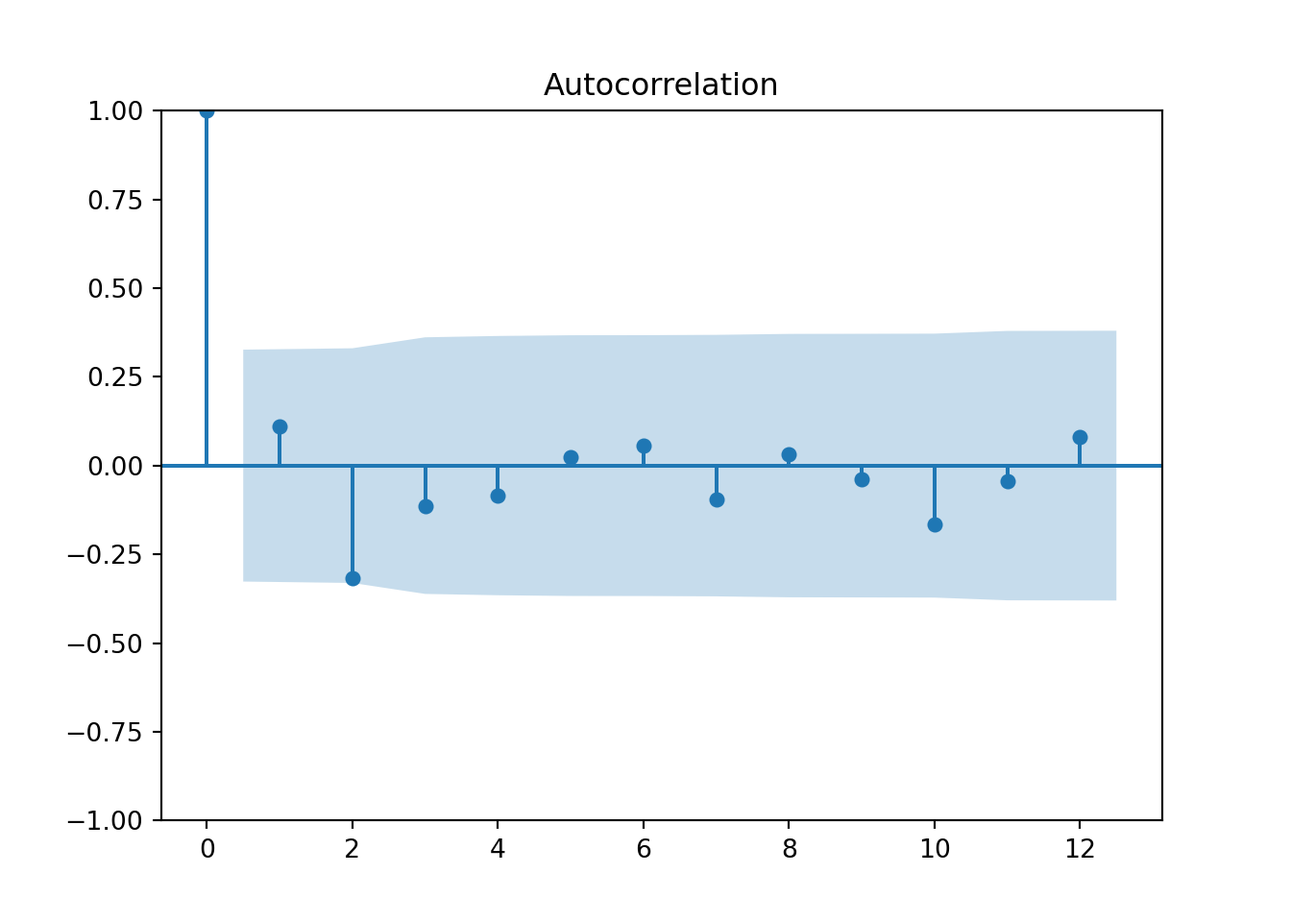
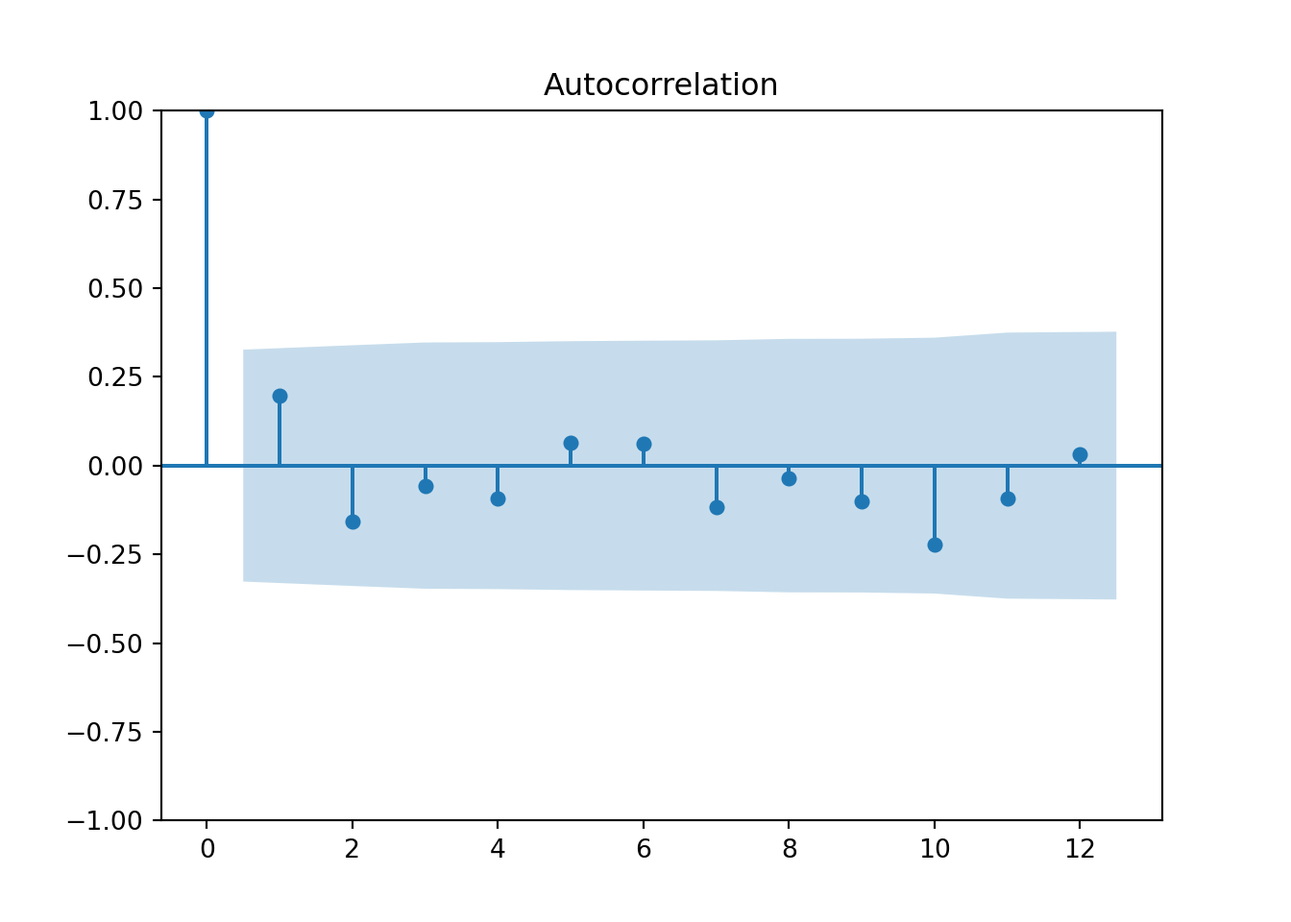
Accuracy measures

diff --git a/docs/arima.html b/docs/arima.html
@@ -23,7 +23,7 @@
 <meta name="author" content="by Dr. Susan Simmons and Dr. Aric LaBarr" />
 
 
-<meta name="date" content="2024-09-03" />
+<meta name="date" content="2024-09-04" />
 
   <meta name="viewport" content="width=device-width, initial-scale=1" />
   <meta name="apple-mobile-web-app-capable" content="yes" />
@@ -481,6 +481,7 @@ H_{A}:Significant\qquad autocorrletion \]</span></p>
 ## 3 search2   93.1   -540. 1094. 1095. 1115.
 ## 4 search1   96.3   -544. 1096. 1096. 1108.
 ## 5 ar3      108.    -549. 1106. 1106. 1118.</code></pre>
+<p>Looking at the ACF and PACF on the residuals of MA(2) model.</p>
 <div class="sourceCode" id="cb55"><pre class="sourceCode r"><code class="sourceCode r"><span id="cb55-1"><a href="arima.html#cb55-1" tabindex="-1"></a>hurr_model <span class="sc">%&gt;%</span> <span class="fu">select</span>(ma2) <span class="sc">%&gt;%</span> <span class="fu">residuals</span>() <span class="sc">%&gt;%</span> <span class="fu">ggAcf</span>()</span></code></pre></div>
 <p><img src="bookdownproj_files/figure-html/unnamed-chunk-9-1.png" width="672" /></p>
 <div class="sourceCode" id="cb56"><pre class="sourceCode r"><code class="sourceCode r"><span id="cb56-1"><a href="arima.html#cb56-1" tabindex="-1"></a>hurr_model <span class="sc">%&gt;%</span> <span class="fu">select</span>(ma2) <span class="sc">%&gt;%</span> <span class="fu">residuals</span>() <span class="sc">%&gt;%</span> <span class="fu">ggPacf</span>()</span></code></pre></div>
@@ -491,6 +492,7 @@ H_{A}:Significant\qquad autocorrletion \]</span></p>
 <pre><code>## Warning: Removed 2 rows containing non-finite outside the scale range
 ## (`stat_bin()`).</code></pre>
 <p><img src="bookdownproj_files/figure-html/unnamed-chunk-9-3.png" width="672" /></p>
+<p>Looking at the ACF and PACF on the ARIMA(3,1,2) model and Ljung-Box test.</p>
 <div class="sourceCode" id="cb60"><pre class="sourceCode r"><code class="sourceCode r"><span id="cb60-1"><a href="arima.html#cb60-1" tabindex="-1"></a>hurr_model <span class="sc">%&gt;%</span> <span class="fu">select</span>(arima32) <span class="sc">%&gt;%</span> <span class="fu">residuals</span>() <span class="sc">%&gt;%</span> <span class="fu">ggAcf</span>()</span></code></pre></div>
 <p><img src="bookdownproj_files/figure-html/unnamed-chunk-10-1.png" width="672" /></p>
 <div class="sourceCode" id="cb61"><pre class="sourceCode r"><code class="sourceCode r"><span id="cb61-1"><a href="arima.html#cb61-1" tabindex="-1"></a>hurr_model <span class="sc">%&gt;%</span> <span class="fu">select</span>(arima32) <span class="sc">%&gt;%</span> <span class="fu">residuals</span>() <span class="sc">%&gt;%</span> <span class="fu">ggPacf</span>()</span></code></pre></div>
@@ -943,15 +945,17 @@ H_{A}:Significant\qquad autocorrletion \]</span></p>
 <div class="sourceCode" id="cb151"><pre class="sourceCode python"><code class="sourceCode python"><span id="cb151-1"><a href="arima.html#cb151-1" tabindex="-1"></a>plot_pacf(quotes_train[<span class="st">&quot;Quotes&quot;</span>],lags<span class="op">=</span><span class="dv">12</span>)</span>
 <span id="cb151-2"><a href="arima.html#cb151-2" tabindex="-1"></a>pyplot.show()</span></code></pre></div>
 <p><img src="bookdownproj_files/figure-html/ADF,%20correlation%20plots%20and%20ARIMA-2.png" width="672" /></p>
-<div class="sourceCode" id="cb152"><pre class="sourceCode python"><code class="sourceCode python"><span id="cb152-1"><a href="arima.html#cb152-1" tabindex="-1"></a>model <span class="op">=</span> ARIMA(y_train, order<span class="op">=</span>(<span class="dv">2</span>,<span class="dv">0</span>,<span class="dv">0</span>))</span>
-<span id="cb152-2"><a href="arima.html#cb152-2" tabindex="-1"></a>model_fit <span class="op">=</span> model.fit()</span>
-<span id="cb152-3"><a href="arima.html#cb152-3" tabindex="-1"></a><span class="bu">print</span>(model_fit.summary())</span></code></pre></div>
+<div class="sourceCode" id="cb152"><pre class="sourceCode python"><code class="sourceCode python"><span id="cb152-1"><a href="arima.html#cb152-1" tabindex="-1"></a><span class="co">### Using statsmodel...the older way of doing this..</span></span>
+<span id="cb152-2"><a href="arima.html#cb152-2" tabindex="-1"></a></span>
+<span id="cb152-3"><a href="arima.html#cb152-3" tabindex="-1"></a>model <span class="op">=</span> ARIMA(y_train, order<span class="op">=</span>(<span class="dv">2</span>,<span class="dv">0</span>,<span class="dv">0</span>))</span>
+<span id="cb152-4"><a href="arima.html#cb152-4" tabindex="-1"></a>model_fit <span class="op">=</span> model.fit()</span>
+<span id="cb152-5"><a href="arima.html#cb152-5" tabindex="-1"></a><span class="bu">print</span>(model_fit.summary())</span></code></pre></div>
 <pre><code>##                                SARIMAX Results                                
 ## ==============================================================================
 ## Dep. Variable:                      Y   No. Observations:                  731
 ## Model:                 ARIMA(2, 0, 0)   Log Likelihood               -2696.123
-## Date:                Tue, 03 Sep 2024   AIC                           5400.247
-## Time:                        10:56:49   BIC                           5418.625
+## Date:                Wed, 04 Sep 2024   AIC                           5400.247
+## Time:                        15:33:07   BIC                           5418.625
 ## Sample:                             0   HQIC                          5407.337
 ##                                 - 731                                         
 ## Covariance Type:                  opg                                         
@@ -991,11 +995,12 @@ H_{A}:Significant\qquad autocorrletion \]</span></p>
 <div class="sourceCode" id="cb158"><pre class="sourceCode python"><code class="sourceCode python"><span id="cb158-1"><a href="arima.html#cb158-1" tabindex="-1"></a>plot_pacf(residuals,lags<span class="op">=</span><span class="dv">12</span>)</span>
 <span id="cb158-2"><a href="arima.html#cb158-2" tabindex="-1"></a>pyplot.show()</span></code></pre></div>
 <p><img src="bookdownproj_files/figure-html/ADF,%20correlation%20plots%20and%20ARIMA-5.png" width="672" /></p>
+<p>Using ndiffs to see if we need to take a difference:</p>
 <div class="sourceCode" id="cb159"><pre class="sourceCode python"><code class="sourceCode python"><span id="cb159-1"><a href="arima.html#cb159-1" tabindex="-1"></a><span class="im">from</span> pmdarima.arima <span class="im">import</span> ndiffs</span>
 <span id="cb159-2"><a href="arima.html#cb159-2" tabindex="-1"></a></span>
-<span id="cb159-3"><a href="arima.html#cb159-3" tabindex="-1"></a>hurricane <span class="op">=</span> pd.read_csv(<span class="st">&quot;https://raw.githubusercontent.com/sjsimmo2/TimeSeries/master/hurrican.csv&quot;</span>)</span>
-<span id="cb159-4"><a href="arima.html#cb159-4" tabindex="-1"></a>hurricane2 <span class="op">=</span> hurricane.dropna(axis<span class="op">=</span><span class="dv">0</span>)</span>
-<span id="cb159-5"><a href="arima.html#cb159-5" tabindex="-1"></a>hurricane_train <span class="op">=</span>hurricane2.head(<span class="dv">149</span>)</span>
+<span id="cb159-3"><a href="arima.html#cb159-3" tabindex="-1"></a>hurr <span class="op">=</span> pd.read_csv(<span class="st">&quot;https://raw.githubusercontent.com/sjsimmo2/TimeSeries/master/hurrican.csv&quot;</span>)</span>
+<span id="cb159-4"><a href="arima.html#cb159-4" tabindex="-1"></a>hurr2 <span class="op">=</span> hurr.dropna(axis<span class="op">=</span><span class="dv">0</span>)</span>
+<span id="cb159-5"><a href="arima.html#cb159-5" tabindex="-1"></a>hurricane_train <span class="op">=</span>hurr2.head(<span class="dv">149</span>)</span>
 <span id="cb159-6"><a href="arima.html#cb159-6" tabindex="-1"></a>hurricane_train</span></code></pre></div>
 <pre><code>##      Date  Hurricanes  MinVMax  MaxVMax  MeanVMax  Year
 ## 0    1851           3     80.0    100.0      86.7  1851
@@ -1026,8 +1031,8 @@ The first value in the Ljung-Box test is the test statistic and the second value
 ## ==============================================================================
 ## Dep. Variable:                      Y   No. Observations:                  731
 ## Model:                 ARIMA(2, 0, 0)   Log Likelihood               -2696.123
-## Date:                Tue, 03 Sep 2024   AIC                           5400.247
-## Time:                        10:56:51   BIC                           5418.625
+## Date:                Wed, 04 Sep 2024   AIC                           5400.247
+## Time:                        15:33:09   BIC                           5418.625
 ## Sample:                             0   HQIC                          5407.337
 ##                                 - 731                                         
 ## Covariance Type:                  opg                                         
@@ -1159,19 +1164,130 @@ The first value in the Ljung-Box test is the test statistic and the second value
 <pre><code>## {&#39;ar1&#39;: 0.9900652806700364}</code></pre>
 <div class="sourceCode" id="cb209"><pre class="sourceCode python"><code class="sourceCode python"><span id="cb209-1"><a href="arima.html#cb209-1" tabindex="-1"></a>model_Quotes.fitted_[<span class="dv">0</span>][<span class="dv">0</span>].model_.get(<span class="st">&quot;aic&quot;</span>)</span></code></pre></div>
 <pre><code>## 151.64675255955572</code></pre>
-<div class="sourceCode" id="cb211"><pre class="sourceCode python"><code class="sourceCode python"><span id="cb211-1"><a href="arima.html#cb211-1" tabindex="-1"></a>resid<span class="op">=</span>model_Quotes.fitted_[<span class="dv">0</span>][<span class="dv">0</span>].model_.get(<span class="st">&quot;residuals&quot;</span>)</span>
-<span id="cb211-2"><a href="arima.html#cb211-2" tabindex="-1"></a></span>
-<span id="cb211-3"><a href="arima.html#cb211-3" tabindex="-1"></a>plot_acf(resid,lags<span class="op">=</span><span class="dv">12</span>)</span>
-<span id="cb211-4"><a href="arima.html#cb211-4" tabindex="-1"></a>pyplot.show()</span></code></pre></div>
+<div class="sourceCode" id="cb211"><pre class="sourceCode python"><code class="sourceCode python"><span id="cb211-1"><a href="arima.html#cb211-1" tabindex="-1"></a><span class="co">### Even though the automatic search choose AR(1), it did NOT include intercept.</span></span>
+<span id="cb211-2"><a href="arima.html#cb211-2" tabindex="-1"></a><span class="co">### Made AR term close to 1 (very close to a random walk).</span></span>
+<span id="cb211-3"><a href="arima.html#cb211-3" tabindex="-1"></a><span class="co">### Refitting the AR(1) model:</span></span>
+<span id="cb211-4"><a href="arima.html#cb211-4" tabindex="-1"></a></span>
+<span id="cb211-5"><a href="arima.html#cb211-5" tabindex="-1"></a>model_Quotes <span class="op">=</span> StatsForecast(models <span class="op">=</span> [ARIMA(order<span class="op">=</span>(<span class="dv">1</span>, <span class="dv">0</span>, <span class="dv">0</span>))], freq <span class="op">=</span> <span class="st">&#39;ME&#39;</span>)</span>
+<span id="cb211-6"><a href="arima.html#cb211-6" tabindex="-1"></a>model_Quotes.fit(df <span class="op">=</span> quotes_train)</span></code></pre></div>
+<pre><code>## StatsForecast(models=[ARIMA])</code></pre>
+<div class="sourceCode" id="cb213"><pre class="sourceCode python"><code class="sourceCode python"><span id="cb213-1"><a href="arima.html#cb213-1" tabindex="-1"></a>resid<span class="op">=</span>model_Quotes.fitted_[<span class="dv">0</span>][<span class="dv">0</span>].model_.get(<span class="st">&quot;residuals&quot;</span>)</span>
+<span id="cb213-2"><a href="arima.html#cb213-2" tabindex="-1"></a></span>
+<span id="cb213-3"><a href="arima.html#cb213-3" tabindex="-1"></a>plot_acf(resid,lags<span class="op">=</span><span class="dv">12</span>)</span>
+<span id="cb213-4"><a href="arima.html#cb213-4" tabindex="-1"></a>pyplot.show()</span></code></pre></div>
 <p><img src="bookdownproj_files/figure-html/unnamed-chunk-29-17.png" width="672" /></p>
-<div class="sourceCode" id="cb212"><pre class="sourceCode python"><code class="sourceCode python"><span id="cb212-1"><a href="arima.html#cb212-1" tabindex="-1"></a>plot_pacf(resid,lags<span class="op">=</span><span class="dv">12</span>)</span>
-<span id="cb212-2"><a href="arima.html#cb212-2" tabindex="-1"></a>pyplot.show()</span></code></pre></div>
+<div class="sourceCode" id="cb214"><pre class="sourceCode python"><code class="sourceCode python"><span id="cb214-1"><a href="arima.html#cb214-1" tabindex="-1"></a>plot_pacf(resid,lags<span class="op">=</span><span class="dv">12</span>)</span>
+<span id="cb214-2"><a href="arima.html#cb214-2" tabindex="-1"></a>pyplot.show()</span></code></pre></div>
 <p><img src="bookdownproj_files/figure-html/unnamed-chunk-29-18.png" width="672" /></p>
-<div class="sourceCode" id="cb213"><pre class="sourceCode python"><code class="sourceCode python"><span id="cb213-1"><a href="arima.html#cb213-1" tabindex="-1"></a><span class="co"># Perform the Ljung-Box test</span></span>
-<span id="cb213-2"><a href="arima.html#cb213-2" tabindex="-1"></a>lb_test <span class="op">=</span> diag.acorr_ljungbox(resid, lags<span class="op">=</span>[<span class="dv">10</span>], model_df<span class="op">=</span><span class="dv">1</span>)</span>
-<span id="cb213-3"><a href="arima.html#cb213-3" tabindex="-1"></a><span class="bu">print</span>(lb_test)</span></code></pre></div>
-<pre><code>##     lb_stat  lb_pvalue
-## 10  7.49283   0.585949</code></pre>
+<div class="sourceCode" id="cb215"><pre class="sourceCode python"><code class="sourceCode python"><span id="cb215-1"><a href="arima.html#cb215-1" tabindex="-1"></a><span class="co"># Perform the Ljung-Box test</span></span>
+<span id="cb215-2"><a href="arima.html#cb215-2" tabindex="-1"></a>lb_test <span class="op">=</span> diag.acorr_ljungbox(resid, lags<span class="op">=</span>[<span class="dv">10</span>], model_df<span class="op">=</span><span class="dv">1</span>)</span>
+<span id="cb215-3"><a href="arima.html#cb215-3" tabindex="-1"></a><span class="bu">print</span>(lb_test)</span></code></pre></div>
+<pre><code>##      lb_stat  lb_pvalue
+## 10  7.200837   0.616218</code></pre>
+<p>Now for using the hurricane data set:</p>
+<div class="sourceCode" id="cb217"><pre class="sourceCode python"><code class="sourceCode python"><span id="cb217-1"><a href="arima.html#cb217-1" tabindex="-1"></a><span class="co">###Note that hurr2 is being redefined here.</span></span>
+<span id="cb217-2"><a href="arima.html#cb217-2" tabindex="-1"></a></span>
+<span id="cb217-3"><a href="arima.html#cb217-3" tabindex="-1"></a></span>
+<span id="cb217-4"><a href="arima.html#cb217-4" tabindex="-1"></a>df <span class="op">=</span> pd.date_range(start<span class="op">=</span><span class="st">&#39;1851-01-01&#39;</span>, end<span class="op">=</span><span class="st">&#39;2008-01-01&#39;</span>, freq<span class="op">=</span><span class="st">&#39;YE&#39;</span>)</span>
+<span id="cb217-5"><a href="arima.html#cb217-5" tabindex="-1"></a>hurr.index<span class="op">=</span>pd.to_datetime(df)</span>
+<span id="cb217-6"><a href="arima.html#cb217-6" tabindex="-1"></a>hurr2 <span class="op">=</span> hurr.dropna(axis<span class="op">=</span><span class="dv">0</span>)</span>
+<span id="cb217-7"><a href="arima.html#cb217-7" tabindex="-1"></a></span>
+<span id="cb217-8"><a href="arima.html#cb217-8" tabindex="-1"></a>d <span class="op">=</span> {<span class="st">&#39;unique_id&#39;</span>: <span class="dv">1</span>, <span class="st">&#39;ds&#39;</span>: hurr2.index, <span class="st">&#39;y&#39;</span>: hurr2[<span class="st">&#39;MeanVMax&#39;</span>]}</span>
+<span id="cb217-9"><a href="arima.html#cb217-9" tabindex="-1"></a>hurr_sf <span class="op">=</span> pd.DataFrame(data <span class="op">=</span> d)</span>
+<span id="cb217-10"><a href="arima.html#cb217-10" tabindex="-1"></a>hurr_train <span class="op">=</span> hurr_sf.head(<span class="dv">149</span>)</span>
+<span id="cb217-11"><a href="arima.html#cb217-11" tabindex="-1"></a>hurr_test <span class="op">=</span> hurr_sf.tail(<span class="dv">9</span>)</span>
+<span id="cb217-12"><a href="arima.html#cb217-12" tabindex="-1"></a></span>
+<span id="cb217-13"><a href="arima.html#cb217-13" tabindex="-1"></a><span class="co">###Looks like we need to take differences:</span></span>
+<span id="cb217-14"><a href="arima.html#cb217-14" tabindex="-1"></a>n_diffs<span class="op">=</span>ndiffs(hurr_train[<span class="st">&quot;y&quot;</span>])</span>
+<span id="cb217-15"><a href="arima.html#cb217-15" tabindex="-1"></a><span class="bu">print</span>(n_diffs)</span></code></pre></div>
+<pre><code>## 1</code></pre>
+<div class="sourceCode" id="cb219"><pre class="sourceCode python"><code class="sourceCode python"><span id="cb219-1"><a href="arima.html#cb219-1" tabindex="-1"></a>hurr2[<span class="st">&#39;MVM_diff&#39;</span>] <span class="op">=</span> hurr2[<span class="st">&#39;MeanVMax&#39;</span>].diff()</span></code></pre></div>
+<pre><code>## &lt;string&gt;:2: SettingWithCopyWarning: 
+## A value is trying to be set on a copy of a slice from a DataFrame.
+## Try using .loc[row_indexer,col_indexer] = value instead
+## 
+## See the caveats in the documentation: https://pandas.pydata.org/pandas-docs/stable/user_guide/indexing.html#returning-a-view-versus-a-copy</code></pre>
+<div class="sourceCode" id="cb221"><pre class="sourceCode python"><code class="sourceCode python"><span id="cb221-1"><a href="arima.html#cb221-1" tabindex="-1"></a>hurr3 <span class="op">=</span> hurr2.dropna(axis<span class="op">=</span><span class="dv">0</span>)</span>
+<span id="cb221-2"><a href="arima.html#cb221-2" tabindex="-1"></a></span>
+<span id="cb221-3"><a href="arima.html#cb221-3" tabindex="-1"></a>df <span class="op">=</span> pd.date_range(start<span class="op">=</span><span class="st">&#39;1854-01-01&#39;</span>, end<span class="op">=</span><span class="st">&#39;2008-01-01&#39;</span>, freq<span class="op">=</span><span class="st">&#39;YE&#39;</span>)</span>
+<span id="cb221-4"><a href="arima.html#cb221-4" tabindex="-1"></a>hurr3.index<span class="op">=</span>pd.to_datetime(df)</span>
+<span id="cb221-5"><a href="arima.html#cb221-5" tabindex="-1"></a></span>
+<span id="cb221-6"><a href="arima.html#cb221-6" tabindex="-1"></a></span>
+<span id="cb221-7"><a href="arima.html#cb221-7" tabindex="-1"></a>d <span class="op">=</span> {<span class="st">&#39;unique_id&#39;</span>: <span class="dv">1</span>, <span class="st">&#39;ds&#39;</span>: hurr3.index, <span class="st">&#39;y&#39;</span>: hurr3[<span class="st">&#39;MVM_diff&#39;</span>]}</span>
+<span id="cb221-8"><a href="arima.html#cb221-8" tabindex="-1"></a>hurr_sf <span class="op">=</span> pd.DataFrame(data <span class="op">=</span> d)</span>
+<span id="cb221-9"><a href="arima.html#cb221-9" tabindex="-1"></a>hurr_train <span class="op">=</span> hurr_sf.head(<span class="dv">146</span>)</span>
+<span id="cb221-10"><a href="arima.html#cb221-10" tabindex="-1"></a></span>
+<span id="cb221-11"><a href="arima.html#cb221-11" tabindex="-1"></a></span>
+<span id="cb221-12"><a href="arima.html#cb221-12" tabindex="-1"></a>plot_acf(hurr_train[<span class="st">&#39;y&#39;</span>],lags<span class="op">=</span><span class="dv">12</span>)</span>
+<span id="cb221-13"><a href="arima.html#cb221-13" tabindex="-1"></a>pyplot.show()</span></code></pre></div>
+<p><img src="bookdownproj_files/figure-html/unnamed-chunk-30-23.png" width="672" /></p>
+<div class="sourceCode" id="cb222"><pre class="sourceCode python"><code class="sourceCode python"><span id="cb222-1"><a href="arima.html#cb222-1" tabindex="-1"></a>plot_pacf(hurr_train[<span class="st">&#39;y&#39;</span>],lags<span class="op">=</span><span class="dv">12</span>)</span>
+<span id="cb222-2"><a href="arima.html#cb222-2" tabindex="-1"></a>pyplot.show()</span></code></pre></div>
+<p><img src="bookdownproj_files/figure-html/unnamed-chunk-30-24.png" width="672" /></p>
+<div class="sourceCode" id="cb223"><pre class="sourceCode python"><code class="sourceCode python"><span id="cb223-1"><a href="arima.html#cb223-1" tabindex="-1"></a><span class="co">### Now to fit models</span></span>
+<span id="cb223-2"><a href="arima.html#cb223-2" tabindex="-1"></a></span>
+<span id="cb223-3"><a href="arima.html#cb223-3" tabindex="-1"></a>model_hurr <span class="op">=</span> StatsForecast(models <span class="op">=</span> [ARIMA(order<span class="op">=</span>(<span class="dv">3</span>, <span class="dv">1</span>, <span class="dv">0</span>))], freq <span class="op">=</span> <span class="st">&#39;YE&#39;</span>)</span>
+<span id="cb223-4"><a href="arima.html#cb223-4" tabindex="-1"></a>model_hurr.fit(df <span class="op">=</span> hurr_train)</span></code></pre></div>
+<pre><code>## StatsForecast(models=[ARIMA])</code></pre>
+<div class="sourceCode" id="cb225"><pre class="sourceCode python"><code class="sourceCode python"><span id="cb225-1"><a href="arima.html#cb225-1" tabindex="-1"></a>model_hurr.fitted_[<span class="dv">0</span>][<span class="dv">0</span>].model_.get(<span class="st">&quot;arma&quot;</span>)</span></code></pre></div>
+<pre><code>## (3, 0, 0, 0, 1, 1, 0)</code></pre>
+<div class="sourceCode" id="cb227"><pre class="sourceCode python"><code class="sourceCode python"><span id="cb227-1"><a href="arima.html#cb227-1" tabindex="-1"></a>model_hurr.fitted_[<span class="dv">0</span>][<span class="dv">0</span>].model_.get(<span class="st">&quot;coef&quot;</span>)</span></code></pre></div>
+<pre><code>## {&#39;ar1&#39;: -1.2068037483176928, &#39;ar2&#39;: -0.9921577263556831, &#39;ar3&#39;: -0.45513268109216304}</code></pre>
+<div class="sourceCode" id="cb229"><pre class="sourceCode python"><code class="sourceCode python"><span id="cb229-1"><a href="arima.html#cb229-1" tabindex="-1"></a>model_hurr.fitted_[<span class="dv">0</span>][<span class="dv">0</span>].model_.get(<span class="st">&quot;aic&quot;</span>)</span></code></pre></div>
+<pre><code>## 1170.708143945541</code></pre>
+<div class="sourceCode" id="cb231"><pre class="sourceCode python"><code class="sourceCode python"><span id="cb231-1"><a href="arima.html#cb231-1" tabindex="-1"></a>model_hurr <span class="op">=</span> StatsForecast(models <span class="op">=</span> [ARIMA(order<span class="op">=</span>(<span class="dv">0</span>, <span class="dv">1</span>, <span class="dv">2</span>))], freq <span class="op">=</span> <span class="st">&#39;YE&#39;</span>)</span>
+<span id="cb231-2"><a href="arima.html#cb231-2" tabindex="-1"></a>model_hurr.fit(df <span class="op">=</span> hurr_train)</span></code></pre></div>
+<pre><code>## StatsForecast(models=[ARIMA])</code></pre>
+<div class="sourceCode" id="cb233"><pre class="sourceCode python"><code class="sourceCode python"><span id="cb233-1"><a href="arima.html#cb233-1" tabindex="-1"></a>model_hurr.fitted_[<span class="dv">0</span>][<span class="dv">0</span>].model_.get(<span class="st">&quot;arma&quot;</span>)</span></code></pre></div>
+<pre><code>## (0, 2, 0, 0, 1, 1, 0)</code></pre>
+<div class="sourceCode" id="cb235"><pre class="sourceCode python"><code class="sourceCode python"><span id="cb235-1"><a href="arima.html#cb235-1" tabindex="-1"></a>model_hurr.fitted_[<span class="dv">0</span>][<span class="dv">0</span>].model_.get(<span class="st">&quot;coef&quot;</span>)</span></code></pre></div>
+<pre><code>## {&#39;ma1&#39;: -1.7415599399956725, &#39;ma2&#39;: 0.7832219286880027}</code></pre>
+<div class="sourceCode" id="cb237"><pre class="sourceCode python"><code class="sourceCode python"><span id="cb237-1"><a href="arima.html#cb237-1" tabindex="-1"></a>model_hurr.fitted_[<span class="dv">0</span>][<span class="dv">0</span>].model_.get(<span class="st">&quot;aic&quot;</span>)</span></code></pre></div>
+<pre><code>## 1106.8880414794749</code></pre>
+<div class="sourceCode" id="cb239"><pre class="sourceCode python"><code class="sourceCode python"><span id="cb239-1"><a href="arima.html#cb239-1" tabindex="-1"></a>model_hurr1 <span class="op">=</span> StatsForecast(models <span class="op">=</span> [ARIMA(order<span class="op">=</span>(<span class="dv">3</span>, <span class="dv">1</span>, <span class="dv">2</span>))], freq <span class="op">=</span> <span class="st">&#39;YE&#39;</span>)</span>
+<span id="cb239-2"><a href="arima.html#cb239-2" tabindex="-1"></a>model_hurr1.fit(df <span class="op">=</span> hurr_train)</span></code></pre></div>
+<pre><code>## StatsForecast(models=[ARIMA])</code></pre>
+<div class="sourceCode" id="cb241"><pre class="sourceCode python"><code class="sourceCode python"><span id="cb241-1"><a href="arima.html#cb241-1" tabindex="-1"></a>model_hurr1.fitted_[<span class="dv">0</span>][<span class="dv">0</span>].model_.get(<span class="st">&quot;arma&quot;</span>)</span></code></pre></div>
+<pre><code>## (3, 2, 0, 0, 1, 1, 0)</code></pre>
+<div class="sourceCode" id="cb243"><pre class="sourceCode python"><code class="sourceCode python"><span id="cb243-1"><a href="arima.html#cb243-1" tabindex="-1"></a>model_hurr1.fitted_[<span class="dv">0</span>][<span class="dv">0</span>].model_.get(<span class="st">&quot;coef&quot;</span>)</span></code></pre></div>
+<pre><code>## {&#39;ar1&#39;: -0.023317373506325338, &#39;ar2&#39;: -0.10989837543299275, &#39;ar3&#39;: 0.08527147335598896, &#39;ma1&#39;: -1.8828868639758158, &#39;ma2&#39;: 0.8828868781268588}</code></pre>
+<div class="sourceCode" id="cb245"><pre class="sourceCode python"><code class="sourceCode python"><span id="cb245-1"><a href="arima.html#cb245-1" tabindex="-1"></a>model_hurr1.fitted_[<span class="dv">0</span>][<span class="dv">0</span>].model_.get(<span class="st">&quot;aic&quot;</span>)</span></code></pre></div>
+<pre><code>## 1095.8026951920508</code></pre>
+<div class="sourceCode" id="cb247"><pre class="sourceCode python"><code class="sourceCode python"><span id="cb247-1"><a href="arima.html#cb247-1" tabindex="-1"></a>model_hurr <span class="op">=</span> StatsForecast(models <span class="op">=</span> [AutoARIMA(seasonal<span class="op">=</span><span class="va">False</span>)], freq <span class="op">=</span> <span class="st">&#39;YE&#39;</span>)</span>
+<span id="cb247-2"><a href="arima.html#cb247-2" tabindex="-1"></a>model_hurr.fit(df <span class="op">=</span> quotes_train)</span></code></pre></div>
+<pre><code>## StatsForecast(models=[AutoARIMA])</code></pre>
+<div class="sourceCode" id="cb249"><pre class="sourceCode python"><code class="sourceCode python"><span id="cb249-1"><a href="arima.html#cb249-1" tabindex="-1"></a>model_hurr.fitted_[<span class="dv">0</span>][<span class="dv">0</span>].model_.get(<span class="st">&quot;arma&quot;</span>)</span></code></pre></div>
+<pre><code>## (1, 0, 0, 0, 1, 0, 0)</code></pre>
+<div class="sourceCode" id="cb251"><pre class="sourceCode python"><code class="sourceCode python"><span id="cb251-1"><a href="arima.html#cb251-1" tabindex="-1"></a>model_hurr.fitted_[<span class="dv">0</span>][<span class="dv">0</span>].model_.get(<span class="st">&quot;coef&quot;</span>)</span></code></pre></div>
+<pre><code>## {&#39;ar1&#39;: 0.9900652806700364}</code></pre>
+<div class="sourceCode" id="cb253"><pre class="sourceCode python"><code class="sourceCode python"><span id="cb253-1"><a href="arima.html#cb253-1" tabindex="-1"></a>model_hurr.fitted_[<span class="dv">0</span>][<span class="dv">0</span>].model_.get(<span class="st">&quot;aic&quot;</span>)</span></code></pre></div>
+<pre><code>## 151.64675255955572</code></pre>
+<div class="sourceCode" id="cb255"><pre class="sourceCode python"><code class="sourceCode python"><span id="cb255-1"><a href="arima.html#cb255-1" tabindex="-1"></a>resid<span class="op">=</span>model_hurr1.fitted_[<span class="dv">0</span>][<span class="dv">0</span>].model_.get(<span class="st">&quot;residuals&quot;</span>)</span>
+<span id="cb255-2"><a href="arima.html#cb255-2" tabindex="-1"></a>plot_acf(resid,lags<span class="op">=</span><span class="dv">12</span>)</span>
+<span id="cb255-3"><a href="arima.html#cb255-3" tabindex="-1"></a>pyplot.show()</span></code></pre></div>
+<p><img src="bookdownproj_files/figure-html/unnamed-chunk-30-25.png" width="672" /></p>
+<div class="sourceCode" id="cb256"><pre class="sourceCode python"><code class="sourceCode python"><span id="cb256-1"><a href="arima.html#cb256-1" tabindex="-1"></a>plot_pacf(resid,lags<span class="op">=</span><span class="dv">12</span>)</span>
+<span id="cb256-2"><a href="arima.html#cb256-2" tabindex="-1"></a>pyplot.show()</span></code></pre></div>
+<p><img src="bookdownproj_files/figure-html/unnamed-chunk-30-26.png" width="672" /></p>
+<div class="sourceCode" id="cb257"><pre class="sourceCode python"><code class="sourceCode python"><span id="cb257-1"><a href="arima.html#cb257-1" tabindex="-1"></a>lb_test <span class="op">=</span> diag.acorr_ljungbox(resid, lags<span class="op">=</span>[<span class="dv">10</span>], model_df<span class="op">=</span><span class="dv">5</span>)</span>
+<span id="cb257-2"><a href="arima.html#cb257-2" tabindex="-1"></a><span class="bu">print</span>(lb_test)</span></code></pre></div>
+<pre><code>##      lb_stat  lb_pvalue
+## 10  2.306516   0.805309</code></pre>
+<p>Get some measures of accuracy on validation data:</p>
+<div class="sourceCode" id="cb259"><pre class="sourceCode python"><code class="sourceCode python"><span id="cb259-1"><a href="arima.html#cb259-1" tabindex="-1"></a><span class="co">##Hurricane data</span></span>
+<span id="cb259-2"><a href="arima.html#cb259-2" tabindex="-1"></a></span>
+<span id="cb259-3"><a href="arima.html#cb259-3" tabindex="-1"></a>y_hat1<span class="op">=</span>model_hurr1.predict(h<span class="op">=</span><span class="dv">8</span>)</span></code></pre></div>
+<pre><code>## C:\PROGRA~3\ANACON~1\Lib\site-packages\statsforecast\core.py:492: FutureWarning: In a future version the predictions will have the id as a column. You can set the `NIXTLA_ID_AS_COL` environment variable to adopt the new behavior and to suppress this warning.
+##   warnings.warn(</code></pre>
+<div class="sourceCode" id="cb261"><pre class="sourceCode python"><code class="sourceCode python"><span id="cb261-1"><a href="arima.html#cb261-1" tabindex="-1"></a>yhat<span class="op">=</span>y_hat1.reset_index(drop<span class="op">=</span><span class="va">True</span>)</span>
+<span id="cb261-2"><a href="arima.html#cb261-2" tabindex="-1"></a>test <span class="op">=</span> hurr_test.reset_index(drop<span class="op">=</span><span class="va">True</span>)</span>
+<span id="cb261-3"><a href="arima.html#cb261-3" tabindex="-1"></a>abs_error<span class="op">=</span> np.absolute(test[<span class="st">&#39;y&#39;</span>]<span class="op">-</span>yhat[<span class="st">&quot;ARIMA&quot;</span>])</span>
+<span id="cb261-4"><a href="arima.html#cb261-4" tabindex="-1"></a>MAE <span class="op">=</span> np.mean(abs_error)</span>
+<span id="cb261-5"><a href="arima.html#cb261-5" tabindex="-1"></a>MAE</span></code></pre></div>
+<pre><code>## 100.95193510567769</code></pre>
+<div class="sourceCode" id="cb263"><pre class="sourceCode python"><code class="sourceCode python"><span id="cb263-1"><a href="arima.html#cb263-1" tabindex="-1"></a>MAPE <span class="op">=</span> np.mean(abs_error<span class="op">/</span>np.absolute(test[<span class="st">&#39;y&#39;</span>]))</span>
+<span id="cb263-2"><a href="arima.html#cb263-2" tabindex="-1"></a>MAPE</span></code></pre></div>
+<pre><code>## 1.0224984187047392</code></pre>
 </div>
 <div id="sas-code-for-armaarima" class="section level2 hasAnchor" number="4.10">
 <h2><span class="header-section-number">4.10</span> SAS Code for ARMA/ARIMA<a href="arima.html#sas-code-for-armaarima" class="anchor-section" aria-label="Anchor link to header"></a></h2>
